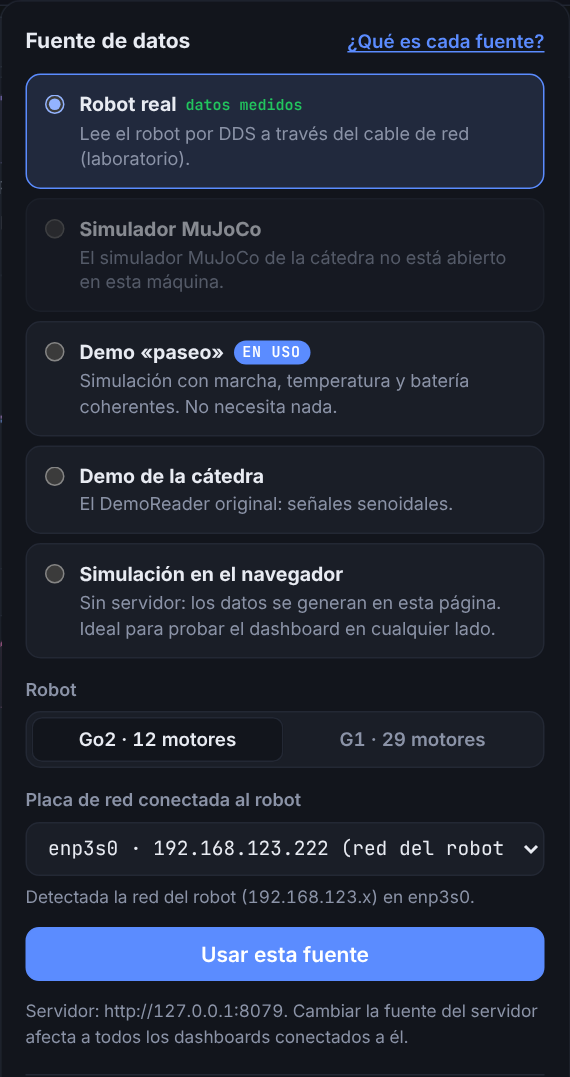
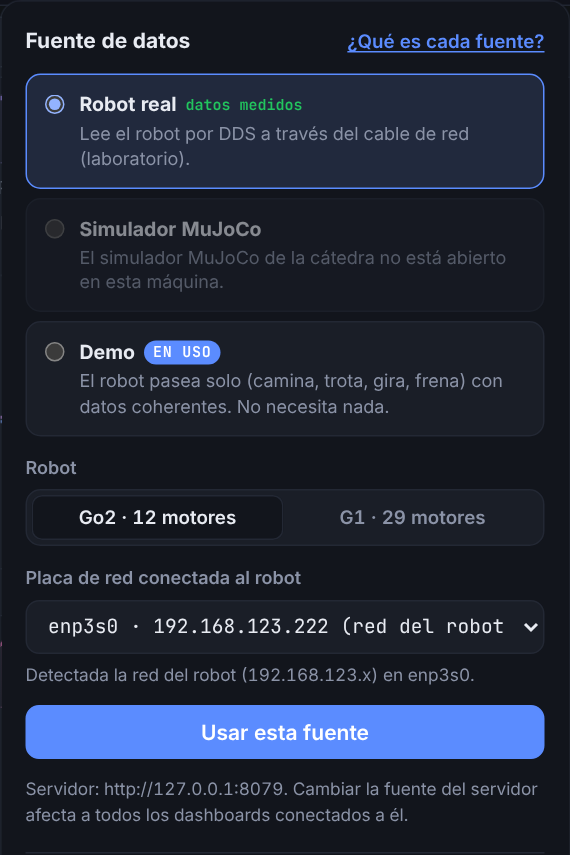
Panel de fuentes con tres opciones: Robot real, Simulador MuJoCo y Demo
- 'Demo' unifica la demo del servidor y la del navegador: usa el servidor
  si hay uno y, si no (GitHub Pages), la misma simulación en el navegador
- la demo de la cátedra sale del panel (redundante); sigue con
  --demo-catedra para comparar, y se explica por qué en el manual y el README
- manual, README y captura de la guía actualizados

Claude-Session: https://claude.ai/code/session_017CuEKqfsZaH2F7enr28zxN

diff --git a/frontend/js/views/manual/content.js b/frontend/js/views/manual/content.js
@@ -83,10 +83,10 @@ export const SECTIONS = [
         type: "figure",
         src: `${A}/real-paso-2.png`,
         alt: "Panel de fuente de datos con Robot real elegido",
-        ratio: "570 / 1077",
+        ratio: "570 / 855",
         phone: true,
         caption: "Captura ilustrativa: el nombre de la placa y su IP dependen de cada notebook.",
-        markers: [[12, 9.5], [50, 68], [50, 79], [50, 88]],
+        markers: [[4, 9], [4, 58.5], [4, 71], [4, 85.5]],
         legend: [
           ["Robot real", "La fuente que lee el robot por el cable. Si aparece gris, falta el SDK (paso 2)."],
           ["Modelo", "Go2 o G1: tiene que ser el robot conectado."],
@@ -104,7 +104,7 @@ export const SECTIONS = [
           ["Los motores no coinciden", "Se eligió G1 con un Go2 conectado (o al revés)."],
         ],
       },
-      { type: "callout", kind: "info", html: "<b>¿Por qué algunas opciones del panel aparecen grises?</b> Gris no quiere decir roto: en <b>esa máquina</b> falta algo para usar esa fuente, y el motivo está escrito debajo del nombre. Robot real necesita el SDK de Unitree; Simulador MuJoCo, que el simulador de la cátedra esté abierto. Las demos y la simulación en el navegador siempre están disponibles. Ver <a href='#man-fuentes'>Fuentes de datos</a>." },
+      { type: "callout", kind: "info", html: "<b>¿Por qué algunas opciones del panel aparecen grises?</b> Gris no quiere decir roto: en <b>esa máquina</b> falta algo para usar esa fuente, y el motivo está escrito debajo del nombre. Robot real necesita el SDK de Unitree; Simulador MuJoCo, que el simulador de la cátedra esté abierto. La Demo siempre está disponible. Ver <a href='#man-fuentes'>Fuentes de datos</a>." },
     ],
   },
 
@@ -149,7 +149,7 @@ export const SECTIONS = [
       {
         type: "callout",
         kind: "tip",
-        html: "<b>¿Robot real o simulación?</b> La etiqueta junto al nombre del robot lo dice siempre: <b>REAL</b> en verde (datos medidos) o <b>SIMULADO</b> en violeta. Haciendo clic se elige la <b>fuente de datos</b>: <i>Robot real</i> (por DDS, en el laboratorio), <i>Simulador MuJoCo</i> de la cátedra, <i>Demo «paseo»</i> del servidor o <i>Simulación en el navegador</i> (sin servidor). Una fuente no disponible aparece gris con el motivo, por ejemplo: «Falta el SDK de Unitree». También se elige ahí el robot: Go2 o G1.",
+        html: "<b>¿Robot real o simulación?</b> La etiqueta junto al nombre del robot lo dice siempre: <b>REAL</b> en verde (datos medidos) o <b>SIMULADO</b> en violeta. Haciendo clic se elige la <b>fuente de datos</b>: <i>Robot real</i> (por DDS, en el laboratorio), <i>Simulador MuJoCo</i> de la cátedra o <i>Demo</i> (el robot pasea solo). Una fuente no disponible aparece gris con el motivo, por ejemplo: «Falta el SDK de Unitree». También se elige ahí el robot: Go2 o G1.",
       },
       {
         type: "callout",
@@ -167,22 +167,20 @@ export const SECTIONS = [
     toc: "Fuentes de datos (modos)",
     title: "Fuentes de datos: ¿de dónde vienen los números?",
     blocks: [
-      { type: "p", html: "El dashboard siempre muestra lo mismo, pero los datos pueden venir de cinco <b>fuentes</b>. La etiqueta junto al nombre del robot dice cuál se está usando: <b>REAL</b> en verde (datos medidos) o <b>SIMULADO</b> en violeta. Al hacer clic en el nombre del robot (o en esa etiqueta) se elige otra fuente y otro robot, sin reiniciar nada." },
+      { type: "p", html: "El dashboard siempre muestra lo mismo, pero los datos pueden venir de tres <b>fuentes</b>. La etiqueta junto al nombre del robot dice cuál se está usando: <b>REAL</b> en verde (datos medidos) o <b>SIMULADO</b> en violeta. Al hacer clic en el nombre del robot (o en esa etiqueta) se elige otra fuente y otro robot, sin reiniciar nada." },
       {
         type: "table",
         head: ["Fuente", "Qué es", "Cuándo usarla", "Qué necesita"],
         rows: [
           ["<b>Robot real</b> <span style='color:var(--sem-ok)'>● medido</span>", "El servidor lee el robot por DDS, a través del cable de red.", "En el laboratorio, con el robot.", "Notebook conectada al robot por cable y el SDK de Unitree (<code>unitree_sdk2py</code>)."],
           ["<b>Simulador MuJoCo</b>", "El simulador 3D de la cátedra, corriendo en la misma máquina que el servidor. Mueve el robot de verdad (sin física completa).", "Practicar con datos parecidos a los del robot.", "El simulador de la cátedra abierto (<code>INICIAR_TP05</code>)."],
-          ["<b>Demo «paseo»</b>", "Simulación de este proyecto: el robot pasea (camina, trota, gira, frena) y los datos son coherentes entre sí: si trota, suben el torque y la temperatura.", "Desarrollar, corregir y presentar. <b>Es la recomendada.</b>", "Nada."],
-          ["<b>Demo de la cátedra</b>", "El generador original de la cátedra: cada motor oscila con una senoidal, sin relación entre ellos.", "Comparar con lo que provee la cátedra.", "Nada."],
-          ["<b>Simulación en el navegador</b>", "La misma simulación «paseo», pero calculada dentro de la página: no hay servidor.", "Mirar el dashboard sin instalar nada (es lo que usa GitHub Pages).", "Nada. No puede conectarse al robot real."],
+          ["<b>Demo</b>", "Simulación de este proyecto: el robot pasea (camina, trota, gira, frena) y los datos son coherentes entre sí: si trota, suben el torque y la temperatura. La calcula el servidor; si no hay servidor (por ejemplo, en GitHub Pages), la misma simulación corre en el navegador.", "Desarrollar, corregir y presentar.", "Nada."],
         ],
       },
       {
         type: "callout",
-        kind: "warn",
-        html: "<b>¿Por qué el robot 3D se ve en una pose rara con la «Demo de la cátedra»?</b> Esa demo mueve todos los motores alrededor de 0°. Para el Go2 eso es una pose imposible: patas estiradas y rodillas sin doblar. No es un error del dashboard: el modelo 3D muestra fielmente los ángulos que llegan. La <b>Demo «paseo»</b> genera los ángulos de un trote real, y por eso se ve natural.",
+        kind: "info",
+        html: "<b>¿Y la demo de la cátedra?</b> No está en el panel porque hace lo mismo que la Demo, pero peor: cada motor oscila con una senoidal suelta, sin marcha, el semáforo nunca pasa de verde y el robot 3D queda en poses imposibles (todos los motores alrededor de 0°: patas estiradas y rodillas sin doblar). Sigue disponible para comparar: <code>python iniciar.py --demo-catedra</code>.",
       },
       {
         type: "list",

diff --git a/frontend/js/main.js b/frontend/js/main.js
@@ -176,18 +176,13 @@ const actions = {
   },
 
   /**
-   * Fuentes de datos disponibles. Siempre incluye la simulación del navegador;
-   * las del backend se le preguntan al último servidor usado.
+   * Fuentes de datos para el panel. Son tres: Robot real, Simulador MuJoCo y
+   * Demo. La Demo es una sola opción para el usuario: si hay servidor la
+   * calcula el servidor (demo «paseo»); si no (p. ej. GitHub Pages), la
+   * calcula el navegador con la misma simulación. Es un detalle técnico que
+   * no hace falta elegir.
    */
   async loadSources({ probe = true } = {}) {
-    const navegador = {
-      modo: "navegador",
-      nombre: "Simulación en el navegador",
-      descripcion: "Sin servidor: los datos se generan en esta página. Ideal para probar el dashboard en cualquier lado.",
-      medido: false,
-      disponible: true,
-      motivo: "",
-    };
     let backend = null;
     let error = "";
     const sim = isSimUrl(state.baseUrl);
@@ -195,29 +190,40 @@ const actions = {
     try {
       // Desde GitHub Pages (https) el navegador no deja conectarse a un backend http.
       if (onPages) throw new Error("pages");
-      // En la simulación del navegador no hay servidor: solo se le pregunta si el
-      // usuario abre el panel de fuentes (así no se ensucia la consola, p. ej. en GitHub Pages).
+      // En la simulación del navegador solo se le pregunta al servidor si el usuario
+      // abre el panel (así no se ensucia la consola con un servidor que no existe).
       if (sim && !probe) throw new Error("sin-consulta");
       backend = await new ApiClient(state.backendUrl, { timeoutMs: 1500 }).fuentes();
     } catch (err) {
       error = onPages
-        ? "Desde GitHub Pages solo se puede usar la simulación del navegador: para el robot real, abrí el dashboard local con «python iniciar.py» (ver el Manual)."
+        ? "Desde GitHub Pages no hay servidor: para el robot real, abrí el dashboard local con «python iniciar.py» (ver el Manual)."
         : /404/.test(err.message)
-        ? "Este servidor no permite elegir la fuente (es el backend original de la cátedra)."
-        : `No hay un servidor en ${state.backendUrl}.`;
+          ? "Este servidor no permite elegir la fuente (es el backend original de la cátedra)."
+          : `No hay un servidor en ${state.backendUrl}.`;
     }
+    state.backendOk = Boolean(backend);
+
+    const demoDesc = backend
+      ? "El robot pasea solo (camina, trota, gira, frena) con datos coherentes. No necesita nada."
+      : "El robot pasea solo con datos coherentes, calculados en este navegador (no hay servidor). No necesita nada.";
     const fuentes = backend
-      ? backend.fuentes
-      : ["real", "simulador", "demo"].map((modo) => ({ modo, nombre: { real: "Robot real", simulador: "Simulador MuJoCo", demo: "Demo «paseo»" }[modo], descripcion: "", disponible: false, motivo: error }));
+      ? backend.fuentes.map((f) => (f.modo === "demo" ? { ...f, descripcion: demoDesc } : f))
+      : [
+          { modo: "real", nombre: "Robot real", medido: true, disponible: false, motivo: error },
+          { modo: "simulador", nombre: "Simulador MuJoCo", medido: false, disponible: false, motivo: error },
+          { modo: "demo", nombre: "Demo", medido: false, disponible: true, descripcion: demoDesc, motivo: "" },
+        ];
+
     state.source = sim
-      ? { modo: "navegador", robot: /g1$/.test(state.baseUrl) ? "g1" : "go2", medido: false }
+      ? { modo: "demo", enNavegador: true, robot: /g1$/.test(state.baseUrl) ? "g1" : "go2", medido: false }
       : backend
         ? { ...backend.actual, medido: backend.actual.modo === "real" }
         : { modo: state.info?.modo ?? "desconocido", robot: state.info?.modelo, medido: state.info?.modo === "real" };
     const result = {
       actual: state.source,
-      cambiable: backend?.cambiable ?? false,
-      fuentes: [...fuentes, navegador],
+      // Sin servidor, la única opción (Demo en el navegador) siempre se puede elegir.
+      cambiable: backend ? backend.cambiable : true,
+      fuentes,
       interfaces: backend?.interfaces ?? [],
       interfazSugerida: backend?.interfaz_sugerida ?? null,
       backendUrl: state.backendUrl,
@@ -228,11 +234,11 @@ const actions = {
     return result;
   },
 
-  /** Cambia la fuente de datos: del navegador, o del backend (POST /fuente). */
+  /** Cambia la fuente de datos (y el robot). La Demo va al servidor si hay uno; si no, al navegador. */
   async setSource({ modo, robot = "go2", interfaz = null }) {
-    if (modo === "navegador") {
+    if (modo === "navegador" || (modo === "demo" && state.backendOk === false)) {
       await actions.connect(robot === "g1" ? "demo-g1" : "demo");
-      toast(`Fuente: simulación en el navegador · ${robot.toUpperCase()}`, { kind: "ok" });
+      toast(`Fuente: demo (en el navegador) · ${robot.toUpperCase()}`, { kind: "ok" });
       return true;
     }
     try {
@@ -247,8 +253,9 @@ const actions = {
       await service.refreshInfo();
       await actions.loadSources();
     }
-    logEvent("ok", `Fuente de datos: ${modo} · ${robot}`);
-    toast(`Fuente: ${modo === "real" ? "robot real" : modo} · ${robot.toUpperCase()}`, { kind: "ok" });
+    const nombre = { real: "robot real", simulador: "simulador MuJoCo", demo: "demo" }[modo] ?? modo;
+    logEvent("ok", `Fuente de datos: ${nombre} · ${robot}`);
+    toast(`Fuente: ${nombre} · ${robot.toUpperCase()}`, { kind: "ok" });
     return true;
   },
 

diff --git a/frontend/js/shell/AppBar.js b/frontend/js/shell/AppBar.js
@@ -170,7 +170,7 @@ export class AppBar {
         h("div", { class: "stat" }, this.statGap, h("span", {}, "entre muestras")),
         h("div", { class: "stat" }, this.statFrames, h("span", {}, "recibidas")),
       ),
-      h("p", {}, "Para conectarte a un backend que corre en ", h("b", {}, "otra computadora"), ": escribí su dirección, por ejemplo ", h("code", {}, "http://192.168.0.23:8001"), " (la consola del backend la muestra al arrancar). ", h("code", {}, "demo"), " o ", h("code", {}, "demo-g1"), " simulan los datos en el navegador, sin servidor."),
+      h("p", {}, "Para conectarte a un backend que corre en ", h("b", {}, "otra computadora"), ": escribí su dirección, por ejemplo ", h("code", {}, "http://192.168.0.23:8001"), " (la consola del backend la muestra al arrancar)."),
     );
   }
 
@@ -251,7 +251,9 @@ export class AppBar {
   }
 
   #paintChip(actual) {
-    const label = { real: "Robot real", simulador: "MuJoCo", demo: "Demo", "demo-catedra": "Demo cátedra", navegador: "Navegador" }[actual?.modo] ?? actual?.modo ?? "";
+    const label = actual?.enNavegador
+      ? "Demo (en el navegador)"
+      : { real: "Robot real", simulador: "Simulador MuJoCo", demo: "Demo", "demo-catedra": "Demo de la cátedra" }[actual?.modo] ?? actual?.modo ?? "";
     this.modeEl.hidden = !label;
     this.modeEl.dataset.mode = actual?.medido ? "real" : "demo";
     // Corta a propósito: "Real" o "Simulado". La fuente exacta, al pasar el mouse y en el panel.
@@ -299,9 +301,8 @@ export class AppBar {
     this.robotSeg.set(this.pickedRobot ?? actual.robot ?? "go2");
     this.sourceList.replaceChildren(
       ...fuentes.map((f) => {
-        const backendSource = f.modo !== "navegador";
-        const enabled = f.disponible && (!backendSource || cambiable || f.modo === actual.modo);
-        const motivo = !f.disponible ? f.motivo : backendSource && !cambiable && f.modo !== actual.modo ? "Este servidor tiene la fuente fija." : "";
+        const enabled = f.disponible && (cambiable || f.modo === actual.modo);
+        const motivo = !f.disponible ? f.motivo : !cambiable && f.modo !== actual.modo ? "Este servidor tiene la fuente fija." : "";
         const input = h("input", { type: "radio", name: "fuente", value: f.modo, checked: f.modo === pick, disabled: !enabled, onchange: () => { this.pickedSource = f.modo; this.#syncSourceForm(); } });
         return h(
           "label",
@@ -313,7 +314,7 @@ export class AppBar {
         );
       }),
     );
-    setText(this.sourceNote, error && !fuentes.some((f) => f.disponible && f.modo !== "navegador") ? `Servidor: ${backendUrl}. ${error}` : `Servidor: ${backendUrl}. Cambiar la fuente del servidor afecta a todos los dashboards conectados a él.`);
+    setText(this.sourceNote, error ? error : `Servidor: ${backendUrl}. Cambiar la fuente del servidor afecta a todos los dashboards conectados a él.`);
     this.#syncSourceForm();
   }
 

diff --git a/backend/fuentes.py b/backend/fuentes.py
@@ -36,14 +36,17 @@ FUENTES = {
         "medido": False,
     },
     "demo": {
-        "nombre": "Demo «paseo»",
-        "descripcion": "Simulación con marcha, temperatura y batería coherentes. No necesita nada.",
+        "nombre": "Demo",
+        "descripcion": "El robot pasea solo (camina, trota, gira, frena) con datos coherentes. No necesita nada.",
         "medido": False,
     },
+    # No se ofrece en el panel (hace lo mismo que la Demo, pero con senoidales
+    # sueltas). Sigue disponible para comparar: `python iniciar.py --demo-catedra`.
     "demo-catedra": {
         "nombre": "Demo de la cátedra",
-        "descripcion": "El DemoReader original: señales senoidales.",
+        "descripcion": "El DemoReader original de la cátedra: señales senoidales.",
         "medido": False,
+        "oculta": True,
     },
 }
 
@@ -108,8 +111,10 @@ def crear_router(crear_lector, configurar, estado: dict, cambiable: bool = True)
     def fuentes():
         lista = []
         for modo, meta in FUENTES.items():
+            if meta.get("oculta") and estado["modo"] != modo:
+                continue  # solo aparece si el servidor arrancó con ella
             ok, motivo = disponibilidad(modo)
-            lista.append({"modo": modo, **meta, "disponible": ok, "motivo": motivo})
+            lista.append({"modo": modo, **{k: v for k, v in meta.items() if k != "oculta"}, "disponible": ok, "motivo": motivo})
         placas = interfaces_de_red()
         sugerida = next((p["nombre"] for p in placas if p["robot"]), None)
         return {

diff --git a/README.md b/README.md
@@ -144,9 +144,11 @@ aula**, no la del cable del robot (`192.168.123.x`). Detalles y firewall en
 |---|---|---|
 | **Robot real** · *datos medidos* | Lee el robot por el cable de red (DDS) | Falta el SDK de Unitree en la notebook del backend (paso 2) |
 | **Simulador MuJoCo** | El simulador 3D de la cátedra, corriendo en la notebook del backend | Ese simulador no está abierto (se abre con `INICIAR_TP05` del repositorio de la cátedra) |
-| **Demo «paseo»** | Simulación de este proyecto: el robot pasea y los datos son coherentes | Nunca: siempre disponible |
-| **Demo de la cátedra** | El generador original de la cátedra: senoidales | Nunca |
-| **Simulación en el navegador** | La misma simulación, calculada en la página, sin servidor | Nunca |
+| **Demo** | El robot pasea solo (camina, trota, gira, frena) con datos coherentes. La calcula el servidor; si no hay servidor (por ejemplo, en GitHub Pages), la misma simulación corre en el navegador | Nunca: siempre disponible |
+
+Son tres a propósito. La **demo original de la cátedra** (senoidales) no está en el panel porque
+hace lo mismo que la Demo, pero sin marcha, sin que el semáforo pase de verde y con el robot 3D en
+poses imposibles. Sigue disponible para comparar: `python iniciar.py --demo-catedra`.
 
 Gris no quiere decir roto: quiere decir que **en esa máquina** falta algo para esa fuente, y el
 motivo está escrito debajo del nombre. Más detalle en el Manual del dashboard
@@ -506,9 +508,7 @@ datos**: `REAL` en verde (medidos) o `SIMULADO` en violeta. Haciendo clic se abr
 |---|---|---|
 | **Robot real** | El backend lee el robot por DDS | Notebook con cable al robot y `unitree_sdk2py` |
 | **Simulador MuJoCo** | El simulador 3D de la cátedra | Simulador de la cátedra abierto en la máquina del backend |
-| **Demo «paseo»** | Simulación coherente del backend | Nada |
-| **Demo de la cátedra** | El `DemoReader` original | Nada |
-| **Simulación en el navegador** | Los datos se generan en la página, sin servidor | Nada (es lo que usa GitHub Pages) |
+| **Demo** | El robot pasea solo con datos coherentes: la calcula el servidor o, si no hay servidor, el navegador (es lo que usa GitHub Pages) | Nada |
 
 …y el robot: **Go2** (12 motores) o **G1** (29). El cambio es **en caliente** (sin reiniciar nada) y
 **transaccional**: el backend solo cambia si la fuente nueva entrega datos en 5 s; si no, sigue con
@@ -576,7 +576,7 @@ navegadores **bloquean** que una página segura se conecte a un servidor no segu
 
 | Dónde se abre | Datos posibles |
 |---|---|
-| GitHub Pages | Simulación en el navegador |
+| GitHub Pages | Demo (calculada en el navegador) |
 | `python iniciar.py` (local) | Demo, simulador MuJoCo **y robot real** |
 
 ### Conectar el dashboard a otro servidor
